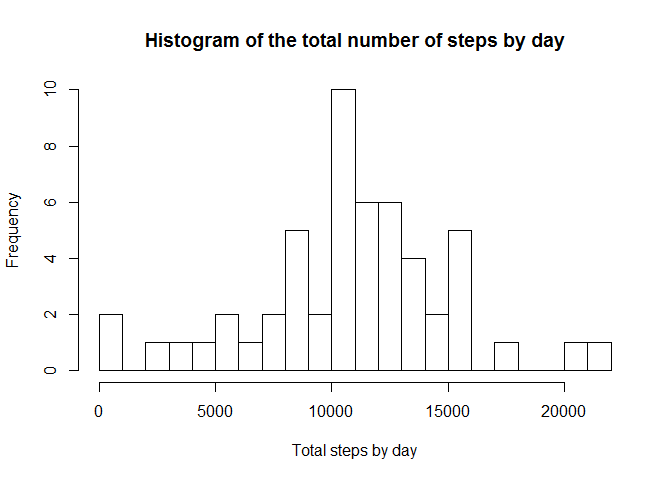
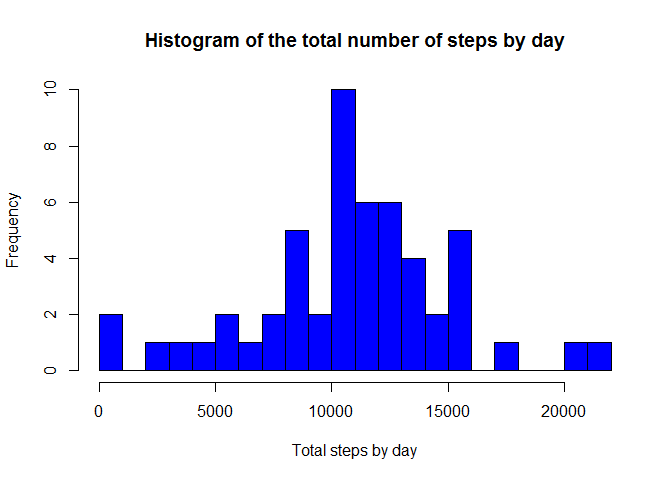
new

Changed region(s): [[0.2188, 0.1875, 0.7812, 0.7812], [0.125, 0.6562, 0.1875, 0.7812], [0.8438, 0.6875, 0.9062, 0.7812]]

diff --git a/PA1_template.html b/PA1_template.html
@@ -146,8 +146,8 @@ activityRawData$date &lt;- as.POSIXct(activityRawData$date, format = &quot;%Y-%m
 <h2>What is mean total number of steps taken per day?</h2>
 <pre class="r"><code>library(dplyr)
 StepsByDay &lt;- summarise(group_by(activityRawData, date), sum(steps))
-hist(StepsByDay$`sum(steps)`, breaks = 20, main = &quot;Histogram of the total number of steps by day&quot;, xlab =&quot;Total steps by day&quot;)</code></pre>
[1 lines of base64/hex data omitted]
+hist(StepsByDay$`sum(steps)`, breaks = 20, col = &quot;blue&quot;, main = &quot;Histogram of the total number of steps by day&quot;, xlab =&quot;Total steps by day&quot;)</code></pre>
[1 lines of base64/hex data omitted]
 </div>
 <div id="what-is-the-average-daily-activity-pattern" class="section level2">
 <h2>What is the average daily activity pattern?</h2>

diff --git a/PA1_template.md b/PA1_template.md
@@ -54,7 +54,7 @@ activityRawData$date <- as.POSIXct(activityRawData$date, format = "%Y-%m-%d")
 ```r
 library(dplyr)
 StepsByDay <- summarise(group_by(activityRawData, date), sum(steps))
-hist(StepsByDay$`sum(steps)`, breaks = 20, main = "Histogram of the total number of steps by day", xlab ="Total steps by day")
+hist(StepsByDay$`sum(steps)`, breaks = 20, col = "blue", main = "Histogram of the total number of steps by day", xlab ="Total steps by day")
 ```
 
 ![](PA1_template_files/figure-html/unnamed-chunk-3-1.png)<!-- -->
